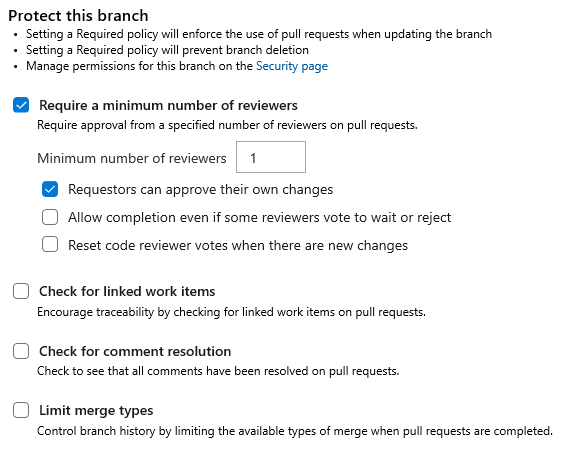
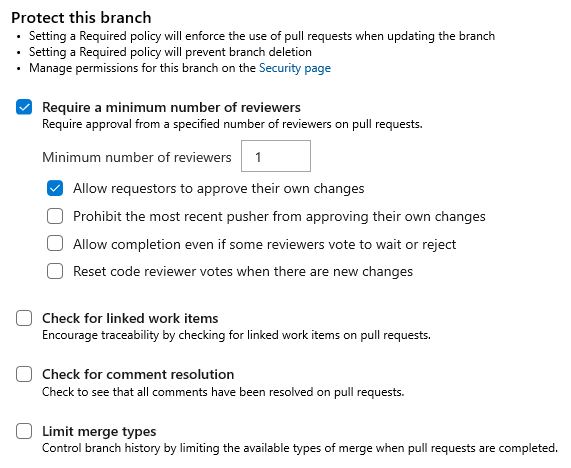
Updated - Lab 6 - Git

diff --git a/docs/AzureSuperpowers.md b/docs/AzureSuperpowers.md
@@ -2056,7 +2056,7 @@ rejected.
     make VS Code aware of new branches, you will need to perform a **git
     fetch** operation.
 
-3.  From within VS Code, View -\> Command Palette
+3.  From the top menu bar of VS Code, select View -\> Command Palette
 
 4.  In the command palette, type **git fetch** and press enter
 
@@ -2122,8 +2122,7 @@ rejected.
     You can configure Azure DevOps to enforce consistent workflows and
     process across your team. Set up branch policies to ensure that code
     merges meet your requirements before completion. Branch policies can
-    be configured to protect your important branches by preventing
-    direct pushes, requiring reviewers, and ensuring clean builds.
+    be configured to protect your important branches by requiring reviewers, ensuring clean builds, and preventing direct pushes.
 
 <div style="page-break-after: always;"></div>
 
@@ -2170,7 +2169,7 @@ url: <https://docs.microsoft.com/en-us/vsts/repos/git/branch-policies>
     the upper right.
 
 6.  Open the context menu for the **master** branch by selecting the
-    ellipsis (\...) icon. Select **Branch policies** from the context
+    ellipsis (\...) icon on the right side. Select **Branch policies** from the context
     menu.
 
     <img src="./media/image29.png" border="1">
@@ -2185,8 +2184,9 @@ url: <https://docs.microsoft.com/en-us/vsts/repos/git/branch-policies>
 
     <img src="./media/image30.png" border="1">
 
-9.  Notice how **Requestors can approve their own changes** is selected.
-    If **Requestors can approve their own changes** is not selected, the
+9.  Notice how **Allow requestors to approve their own changes** is selected.
+
+    If **Allow requestors to approve their own changes** is not selected, the
     creator of the pull request can still vote Approve on their pull
     request, but their vote won\'t count toward the Require a minimum
     number of reviewers policy.
@@ -2203,7 +2203,7 @@ url: <https://docs.microsoft.com/en-us/vsts/repos/git/branch-policies>
 
 A commit is the act of recording changes to the repository. A repository
 contains all files of a project and stores each file's revision history.
-When changes are made to one or more files, those can be saved to a
+When changes are made to one or more files, those changes can be saved to a
 branch as a commit. Each commit can contain the changes to one or
 multiple files.
 
@@ -2308,7 +2308,7 @@ the \--global option when you're in that project.
 
     <img src="./media/image33.png" border="1">
 
-8.  In the status bar at the bottom of VS Code, notice the number 1 next
+8.  In the status bar at the bottom left corner of VS Code, notice the number 1 next
     to the up arrow. This indicates that there is one pending commit
     waiting to be pushed to the Git repository stored in Azure DevOps.
 
@@ -2360,7 +2360,7 @@ the \--global option when you're in that project.
 <!-- -->
 
 9.  In the **Message** field, enter a short description of the change
-    being made. For example, Initial Commit.
+    being made. For example, "Changing vmName from a variable to a parameter".
 
 <!-- -->
 
@@ -2369,7 +2369,7 @@ the \--global option when you're in that project.
     Note that the change has not yet been updated to the hosted Git
     repository in Azure DevOps.
 
-11. In the status bar at the bottom of VS Code, notice the number next
+11. In the status bar at the bottom left corner of VS Code, notice the number next
     to the up arrow is updated to 2. This indicates that there are now
     two pending commits waiting to be pushed to the Git repository
     stored in Azure DevOps. Throughout this exercise you committed over
